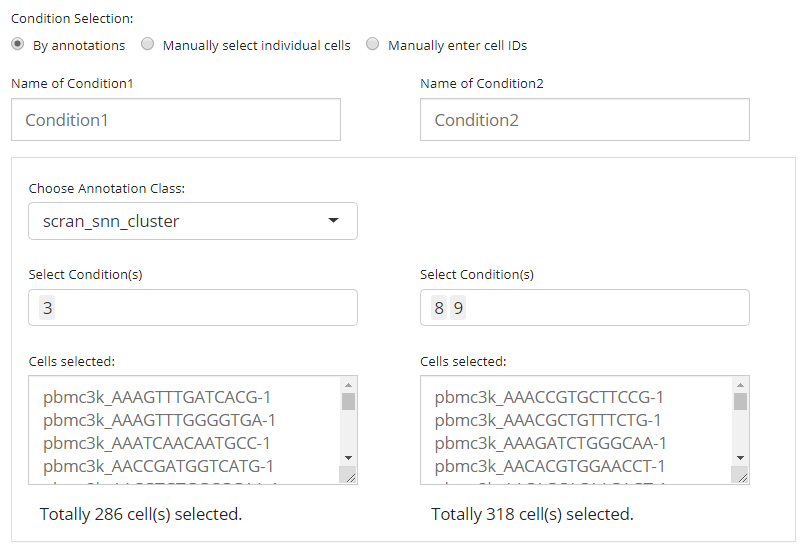
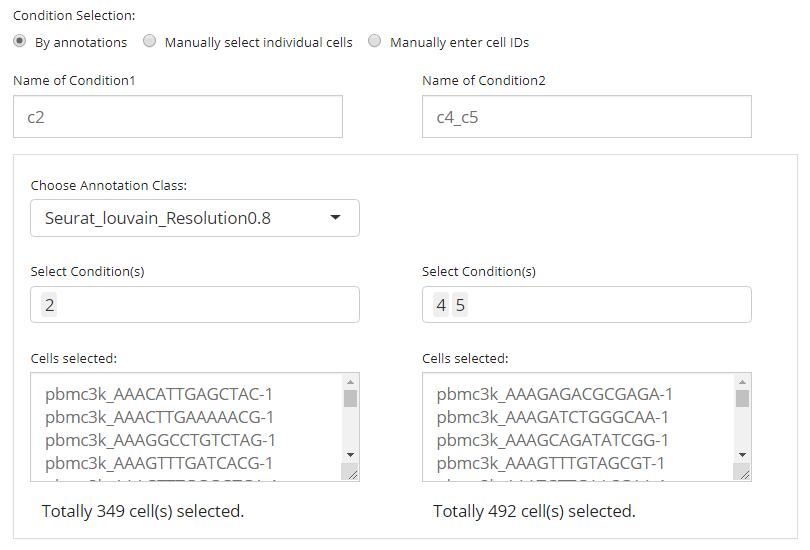
UI documentation for DE

diff --git a/docs/articles/ui_differential_expression.html b/docs/articles/ui_differential_expression.html
@@ -175,23 +175,78 @@
 <div id="categorical-selection" class="section level4">
 <h4 class="hasAnchor">
 <a href="#categorical-selection" class="anchor"></a>Categorical Selection</h4>
-<p>The first approach is designed for the fastest use, where conditions of interests and of control can be simply defined by categorical variables of the same class in the cell annotation (i.e. within one single column on <code>colData</code> of the background SCE object).</p>
+<p>The first approach is designed for the fastest use, where conditions of interests and of control can be simply defined by categorical variables of the same class in the cell annotation (i.e. within one single column in <code>colData</code> of the background SCE object).</p>
 <p><img src="de_ui_condMeth1.png" style="border: 1px solid rgba(0,0,0,0.2)"></p>
-<p><strong>TODO detail descriptions</strong></p>
+<p>First, users need to choose one single option from the selection list <strong>“Choose Annotation Class”</strong>. Then, in the UI, there will be two columns for each condition. For each of them, users can make selections for which categories should belong to the condition, at the selection input <strong>“Select Condition(s)”</strong>. One or more selections are acceptable. When selections are made for one condition while no selection for the other, all the categories but those already used for the former will go to the latter. The text boxes, <strong>“Cells selected”</strong>, are only for showing users what are selected. While the text span below the boxes summaries the total number of cells selected.<br><strong>TODO check if text box actually is editable</strong></p>
+<p>In the example in the figure shown above, we intend to define the conditions based on the clustering result generated by Seurat’s louvain clustering, with resolution 0.8, <code>"Seurat_louvain_Resolution0.8"</code>. Then we define that the cells assigned to “cluster 2” are of our interests, while the cells assigned to both “cluster 4” and “cluster 5” should be a control against “cluster 2”. (Same as the example in the <a href="differential_expression.html#example">R console tutorial for DE</a>)</p>
 </div>
 <div id="data-table-firtering-selection" class="section level4">
 <h4 class="hasAnchor">
 <a href="#data-table-firtering-selection" class="anchor"></a>Data Table Firtering Selection</h4>
 <p>The second approach allows users to make the most use of all the cell annotations available. Meanwhile, single selection on each cell is also enabled to ensure the highest flexibility, though can be relatively ineffective.</p>
-<p><strong>TODO Screenshot</strong></p>
-<p><strong>TODO detail description</strong></p>
+<p><img src="de_ui_condMeth2.png" style="border: 1px solid rgba(0,0,0,0.2)"></p>
+<p>In this approach, we utilize a data table, where filters can be applied, for the flexible definition on each condition. By default, all classes of annotations are displayed. In the selection input <strong>“Columns to display”</strong>, users can select one or more classes annotations, which should be displayed and used for filtering. The blank box under each column title is where the filters are applied. For categorical columns, one or more selections on available variables can be made; for numeric columns (with continuous values), value range can be set. All filters applied are not technically making any selection on cells, but adjusting which cells to display in the table. This can be inferred from the first text span summary below the table area. After users applied all necessary filters, click on <strong>“Add all filtered”</strong> button below the table area to technically make the selection. Meanwhile, Each row in the table is clickable to make a single selection/cancellation on cells. The advantage of the approach is that conditions defined by necessarily multiple classes of annotations can be fulfilled.</p>
+<p>Similarly as the first approach, in the figure, we are making an equivalent condition definition.</p>
 </div>
 <div id="select-by-pasting-a-list" class="section level4">
 <h4 class="hasAnchor">
 <a href="#select-by-pasting-a-list" class="anchor"></a>Select by Pasting a list</h4>
-<p>The final way allows users without any useful annotation but still know which cells are interesting to perform the analysis.</p>
-<p><strong>TODO Screenshot</strong></p>
-<p><strong>TODO detail description</strong></p>
+<p>The final way allows users without any useful annotation but still know which cells are interesting to perform the analysis. It is just by easily pasting a list of cell identifiers into the text box for each condition. Note that the cell identifiers used must be the default cell IDs in the background SCE object (i.e. <code>colnames</code>). The input text should be formatted by one ID per line, splitted with no symbol. A summary text span below each text box will be dynamically updated after pasting, for the number of valid IDs found in the input.</p>
+<p><img src="de_ui_condMeth3.png" style="border: 1px solid rgba(0,0,0,0.2)"></p>
+</div>
+</div>
+<div id="other-parameters" class="section level3">
+<h3 class="hasAnchor">
+<a href="#other-parameters" class="anchor"></a>Other Parameters</h3>
+<p><img src="de_ui_param.png" style="border: 1px solid rgba(0,0,0,0.2)"></p>
+<ul>
+<li>
+<strong>Method</strong>. At the selection input <strong>“Choose analysis method”</strong>, where “MAST”, “DESeq2”, “Limma” and “ANOVA” are available. Note that these method requires different types of input assay, so please pay attention to the red notification.</li>
+<li>
+<strong>FDR cutoff</strong>. At the numeric input <strong>“Output FDR less than”</strong>. As the label indicates, the cutoff set here will rule out DE genes with FDR (false discovery rate) value more than the cutoff from the result.</li>
+<li>
+<strong>Log2FC cutoff</strong>. At the numeric input <strong>“Output Log2FC Absolute value greater than”</strong>. As the label indicates, the cutoff set here will rule out DE genes with absolute value of Log2FC (logged fold change) smaller than the cutoff from the result.</li>
+<li>
+<strong>Whether only up-regulation</strong>. At the checkbox input <strong>“Only up-regulated genes”</strong>. By checking this option, only DE genes with positive log2FC value will remain in the result. And in the DE analysis within SCTK, “up-regulation” will always mean a positive log2FC tested from the condition of interests against the condition of control.</li>
+<li>
+<strong>Covariate</strong>. At the selection input <strong>“Select Covariates”</strong>. A covariate is another set of categorization on the cells involved in the analysis, used for modeling. In the UI, we only allow setting the covariates by using the cell annotations saved in background (i.e. <code>colData</code> of the SCE object). Multiple selections are acceptable.</li>
+<li>
+<strong>Name of an analysis</strong>. At the text input <strong>“Name of Differential Expression Analysis:”</strong>. This is a required field for all DE analysis. Similarly to the naming of each condition, when performing batches of analysis, users will need unique identifiers to recognize each set of result, and to avoid confusion in downstream analysis.</li>
+</ul>
+</div>
+<div id="result-visualization" class="section level3">
+<h3 class="hasAnchor">
+<a href="#result-visualization" class="anchor"></a>Result Visualization</h3>
+<div id="gene-table" class="section level4">
+<h4 class="hasAnchor">
+<a href="#gene-table" class="anchor"></a>Gene Table</h4>
+<p><img src="de_ui_res1.png" style="border: 1px solid rgba(0,0,0,0.2)"></p>
+<p>In this tab, there will be a table with all the genes that are thought to be differentially expressed in the condition of interest against the condition of control, with high significance and passed all filter parameters. The gene names (default identifier in the background object, not necessarily a gene symbol), p-values, log2FC values, and FDR values will be present. The table will be saved in background by the name of the analysis, entered before running. Users can also download the table in comma-splitted value (CSV) format, by clicking <strong>“Download Result Table”</strong> button.</p>
+</div>
+<div id="violin-plot" class="section level4">
+<h4 class="hasAnchor">
+<a href="#violin-plot" class="anchor"></a>Violin Plot</h4>
+<p><img src="de_ui_res2.png" style="border: 1px solid rgba(0,0,0,0.2)"></p>
+<p><strong>TODO: description. Fix BUG in dynamic UI</strong></p>
+</div>
+<div id="linear-modeling-plot" class="section level4">
+<h4 class="hasAnchor">
+<a href="#linear-modeling-plot" class="anchor"></a>Linear Modeling Plot</h4>
+<p><img src="de_ui_res3.png" style="border: 1px solid rgba(0,0,0,0.2)"></p>
+<p><strong>TODO: description. Fix BUG in dynamic UI</strong></p>
+</div>
+<div id="heatmap" class="section level4">
+<h4 class="hasAnchor">
+<a href="#heatmap" class="anchor"></a>Heatmap</h4>
+<p><img src="de_ui_res4.png" style="border: 1px solid rgba(0,0,0,0.2)"></p>
+<p>This tab enables a limited heatmap visualization for the DE analysis selected. Here SCTK will automatically group the cells to the two conditions where they are assigned to, and group the genes by the log2FC values, which indicate whether a gene is up-regulated or down-regulated.</p>
+<ul>
+<li>Further filtering by the statistics can be applied through numeric inputs <strong>“Absolute log2FC value greater than”</strong> and <strong>“FDR value less than”</strong>.</li>
+<li>Additional labeling can be added from background by multi-selection inputs <strong>“Additional cell annotation”</strong> and <strong>“Additional feature annotation”</strong>.</li>
+<li>The heatmap is by default splitted by the grouping “condition” and “regulation”, mentioned above. And this can only be achieved by selecting these two option in the multi-selection inputs <strong>“Split columns by”</strong> and <strong>“Split rows by”</strong>, respectively. Technically, these options can be canceled while other options can also be added, as long as users wish.</li>
+</ul>
+<p>Furthermore, if more sophisticated settings on the DE heatmap are needed, users can move to the <a href="ui_heatmap.html">generic heatmap viewer</a> and make use of the “import from analysis” functionality.</p>
+<p><strong>TODO: Fix BUG that additional colData annotation cannot be added.</strong></p>
 </div>
 </div>
 </div>
